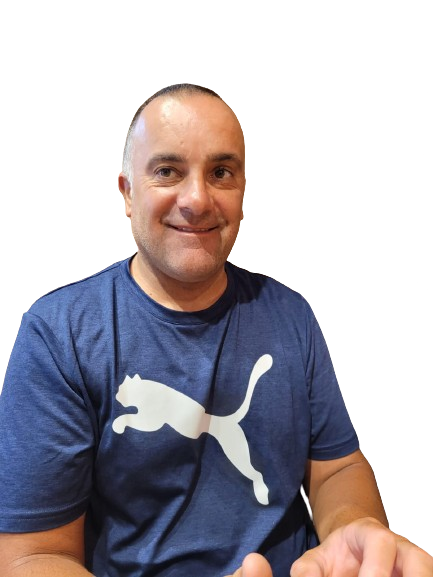
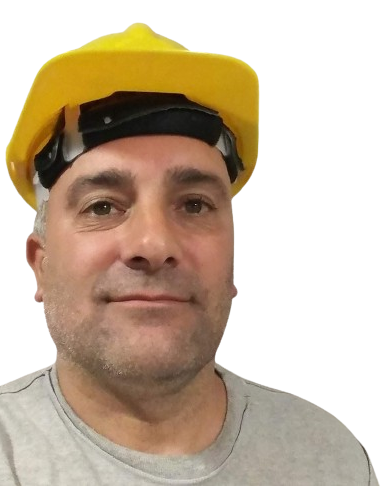
Terminado seccion Sobre Mi

diff --git a/pages/sobremi.html b/pages/sobremi.html
@@ -48,13 +48,12 @@
    <main>    <!--La "u" es para subrayar la frase que quiera -->
     <section>
         <div class="contenedor-sobre-mi">
-            <img class="img-sobre-mi" src="../assets/img/este.jpg" alt="Foto de Guillermo">
-            <div>
+            <img data-aos="fade-right" class="img-sobre-mi" src="../assets/img/ElGuille.png" alt="Foto de Guillermo">
+            <div data-aos="fade-left">
                 <h1 class="text-white fs-3"> Hola! Soy Guillermo Martin Alvarez y me dedico al Steel Framing</h1>
                 <p class="text-white fs-5">Especialista en Steel Framing con años de experiencia en la industria. Mi objetivo es brindar soluciones de construcción eficientes, seguras y de alta calidad mediante el uso de esta innovadora técnica. A lo largo de mi carrera, he trabajado en numerosos proyectos de construcción, liderando equipos y colaborando estrechamente con arquitectos, ingenieros ycontratistas. Mi enfoque principal es garantizar la satisfacción de mis clientes y superar sus expectativas en cada proyecto en el que participo.<br><u>Por qué elegirme:</u><br>
                 Profesionalismo y compromiso en cada etapa del proyecto. Amplio conocimiento y experiencia en la implementación de Steel Framing. Resultados de alta calidad que cumplen con los estándares más exigentes. Un enfoque personalizado y soluciones adaptadas.</p>
             </div>
-            
         </div>
         <div class="Wsp">
             <a class="wsp_logo" target="_blank" href="https://wa.me/2235416176">
